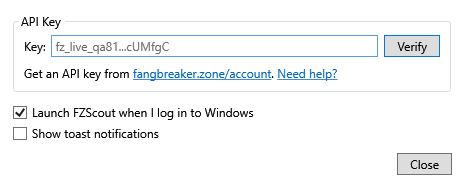
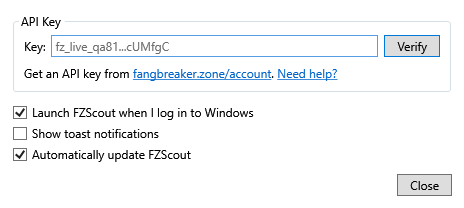
Add a setting to turn off automatic updates
When off, FZScout skips its periodic update check. Check for updates in About still works. Turning it back on checks right away.

diff --git a/FZScout/SettingsWindow.xaml b/FZScout/SettingsWindow.xaml
@@ -1,4 +1,4 @@
-<local:FixedSizeDialog x:Class="FZScout.SettingsWindow"
+<local:FixedSizeDialog x:Class="FZScout.SettingsWindow"
         x:ClassModifier="internal"
         xmlns="http://schemas.microsoft.com/winfx/2006/xaml/presentation"
         xmlns:x="http://schemas.microsoft.com/winfx/2006/xaml"
@@ -78,6 +78,7 @@
 
         <CheckBox Margin="0,12,0,0" Content="_Launch FZScout when I log in to Windows" IsChecked="{Binding LaunchesAtLogin}" />
         <CheckBox Margin="0,6,0,0" Content="Show _toast notifications" IsChecked="{Binding ShowsToastNotifications}" />
+        <CheckBox Margin="0,6,0,0" Content="Automatically _update FZScout" IsChecked="{Binding DownloadsUpdatesAutomatically}" />
 
         <Button Margin="0,12,0,0" HorizontalAlignment="Right" Content="Close" IsCancel="True" Padding="12,2" Click="CloseWindow" />
     </StackPanel>

diff --git a/FZScout/TrayApplication.cs b/FZScout/TrayApplication.cs
@@ -29,6 +29,7 @@ class TrayApplication : IDisposable
     readonly DispatcherTimer _showStatusWhenItChangesByItself = new();
     readonly LaunchAtLogin.StartupApp _launchAtLogin;
     readonly OnUnlessTurnedOffSetting _showToastNotifications = OnUnlessTurnedOffSetting.ShowToastNotifications();
+    readonly OnUnlessTurnedOffSetting _downloadUpdatesAutomatically = OnUnlessTurnedOffSetting.DownloadUpdatesAutomatically();
     readonly ApiKeyVerifier _apiKeyVerifier;
     readonly AsyncRelayCommand _verifyApiKeyCommand;
     bool _hasExplainedHidingToTray;
@@ -92,7 +93,7 @@ class TrayApplication : IDisposable
 
     AppViewModel CreateViewModel()
     {
-        return new AppViewModel(this._dependencies.GetVersion(), this._launchAtLogin.IsOn, this._showToastNotifications.IsOn)
+        return new AppViewModel(this._dependencies.GetVersion(), this._launchAtLogin.IsOn, this._showToastNotifications.IsOn, this._downloadUpdatesAutomatically.IsOn)
         {
             DownloadedVersionToInstallAfterExit = this._updateChecker.DownloadedVersionToInstallAfterExit,
             ShowLogCommand = new RelayCommand(ShowLog),
@@ -198,6 +199,11 @@ class TrayApplication : IDisposable
         {
             this._showToastNotifications.TurnOnOrOff(this._viewModel.ShowsToastNotifications);
         }
+
+        if (e.PropertyName == nameof(AppViewModel.DownloadsUpdatesAutomatically))
+        {
+            ApplyDownloadUpdatesAutomatically(this._viewModel.DownloadsUpdatesAutomatically);
+        }
     }
 
     void ApplyLaunchAtLogin(bool wantsLaunchAtLogin)
@@ -214,6 +220,16 @@ class TrayApplication : IDisposable
         }
 
         this._launchAtLogin.TurnOff();
+    }
+
+    /// <summary>Checks right away when turned on, instead of waiting for the next periodic check.</summary>
+    void ApplyDownloadUpdatesAutomatically(bool wantsAutomaticUpdates)
+    {
+        this._downloadUpdatesAutomatically.TurnOnOrOff(wantsAutomaticUpdates);
+        if (wantsAutomaticUpdates)
+        {
+            _ = CheckForUpdatesAsync();
+        }
     }
 
     bool CanVerifyApiKey() => ApiKeyBeingEdited.Length > 0 && ApiKeyBeingEdited != this._apiKeyVerifier.SavedApiKey?.Value;

diff --git a/FZScout/WatchForNewUpdates.cs b/FZScout/WatchForNewUpdates.cs
@@ -1,7 +1,7 @@
 namespace FZScout;
 
 /// <summary>
-/// Downloads updates in the background from construction until disposed, then installs the newest one after the process exits.
+/// Downloads updates in the background from construction until disposed, while the user has automatic updates turned on, then installs the newest one after the process exits.
 /// Disposing drops any download still in progress, so exiting never waits on the network.
 /// </summary>
 class WatchForNewUpdates : IDisposable
@@ -9,9 +9,9 @@ class WatchForNewUpdates : IDisposable
     readonly CancellationTokenSource _stopCheckingForUpdates = new();
     readonly Task _checkingForUpdates;
 
-    public WatchForNewUpdates(TimeProvider timeProvider)
+    public WatchForNewUpdates(Func<bool> isTurnedOn, TimeProvider timeProvider)
     {
-        this._checkingForUpdates = Task.Run(() => UpdateChecker.DownloadNewestReleaseNowAndPeriodicallyUntilCancelled(timeProvider, this._stopCheckingForUpdates.Token));
+        this._checkingForUpdates = Task.Run(() => UpdateChecker.DownloadNewestReleaseNowAndPeriodicallyUntilCancelled(isTurnedOn, timeProvider, this._stopCheckingForUpdates.Token));
     }
 
     /// <summary>For checking right away, on top of the periodic checks. Whatever it downloads also gets installed after exit.</summary>

diff --git a/FZScout/GitHubUpdateChecker.cs b/FZScout/GitHubUpdateChecker.cs
@@ -36,14 +36,21 @@ class GitHubUpdateChecker(IUpdateSource updateSource, IVelopackLocator? locator 
         return new GithubSource($"https://github.com/{GitHubRepository.OwnerAndName}", accessToken: null, prerelease: acceptPrereleases);
     }
 
-    /// <summary>Returns quietly once cancelled, dropping any download still in progress.</summary>
-    public async Task DownloadNewestReleaseNowAndPeriodicallyUntilCancelled(TimeProvider timeProvider, CancellationToken cancellationToken)
+    /// <summary>
+    /// Returns quietly once cancelled, dropping any download still in progress. Asks <paramref name="isTurnedOn"/> before each check,
+    /// so turning automatic updates off or on takes effect at the next check without restarting.
+    /// </summary>
+    public async Task DownloadNewestReleaseNowAndPeriodicallyUntilCancelled(Func<bool> isTurnedOn, TimeProvider timeProvider, CancellationToken cancellationToken)
     {
         try
         {
             while (true)
             {
-                await DownloadNewestRelease(cancellationToken);
+                if (isTurnedOn())
+                {
+                    await DownloadNewestRelease(cancellationToken);
+                }
+
                 await Task.Delay(TimeBetweenChecks, timeProvider, cancellationToken);
             }
         }

diff --git a/FZScout.Tests/GitHubUpdateCheckerTests.cs b/FZScout.Tests/GitHubUpdateCheckerTests.cs
@@ -120,12 +120,26 @@ public class GitHubUpdateCheckerTests
         using var installDir = new TempDirectory();
         var checker = CreateChecker("1.0.0", new FakeUpdateSource(FeedWithRelease("2.0.0")), installDir);
         using var stopChecking = new CancellationTokenSource();
-        var checking = checker.DownloadNewestReleaseNowAndPeriodicallyUntilCancelled(new FakeTimeProvider(), stopChecking.Token);
+        var checking = checker.DownloadNewestReleaseNowAndPeriodicallyUntilCancelled(() => true, new FakeTimeProvider(), stopChecking.Token);
 
         stopChecking.Cancel();
         await checking;
 
         Assert.True(checking.IsCompletedSuccessfully);
+    }
+
+    [Fact]
+    public async Task DoesNotDownloadWhileTurnedOff()
+    {
+        using var installDir = new TempDirectory();
+        var checker = CreateChecker("1.0.0", new FakeUpdateSource(FeedWithRelease("2.0.0")), installDir);
+        using var stopChecking = new CancellationTokenSource();
+        var checking = checker.DownloadNewestReleaseNowAndPeriodicallyUntilCancelled(() => false, new FakeTimeProvider(), stopChecking.Token);
+
+        stopChecking.Cancel();
+        await checking;
+
+        Assert.Null(checker.DownloadedVersionToInstallAfterExit);
     }
 
     [Theory]

diff --git a/FZScout.Tests/Xaml/SettingsWindowTests.cs b/FZScout.Tests/Xaml/SettingsWindowTests.cs
@@ -7,7 +7,7 @@ public class SettingsWindowTests
     [WpfFact]
     public Task AfterVerifyingTheApiKey()
     {
-        var viewModel = new AppViewModel("7.0.0", launchesAtLogin: true, showsToastNotifications: false)
+        var viewModel = new AppViewModel("7.0.0", launchesAtLogin: true, showsToastNotifications: false, downloadsUpdatesAutomatically: true)
         {
             ApiKeyBeingEdited = "fz_live_not_a_real_key",
             ApiKeyVerificationStatus = ApiKeyVerificationStatus.VerifiedAndSaved,
@@ -18,7 +18,7 @@ public class SettingsWindowTests
     [WpfFact]
     public Task ShowsWhichApiKeyIsSavedWithoutRevealingIt()
     {
-        var viewModel = new AppViewModel("7.0.0", launchesAtLogin: true, showsToastNotifications: false)
+        var viewModel = new AppViewModel("7.0.0", launchesAtLogin: true, showsToastNotifications: false, downloadsUpdatesAutomatically: true)
         {
             SavedApiKeyAbbreviation = "fz_live_qa81...cUMfgC",
         };

diff --git a/FZScout.Tests/Xaml/MainWindowTests.cs b/FZScout.Tests/Xaml/MainWindowTests.cs
@@ -7,7 +7,7 @@ public class MainWindowTests
     [WpfFact]
     public Task WithEachKindOfLogLine()
     {
-        var viewModel = new AppViewModel("7.0.0", launchesAtLogin: true, showsToastNotifications: true);
+        var viewModel = new AppViewModel("7.0.0", launchesAtLogin: true, showsToastNotifications: true, downloadsUpdatesAutomatically: true);
         viewModel.LogLines.Add(new LogLine("2026-11-05 12:00:00 FZScout v7.0.0", LogLineSeverity.Info));
         viewModel.LogLines.Add(new LogLine("2026-11-05 12:00:01 Reported a bonus. See https://fangbreaker.zone/bonuses", LogLineSeverity.Success));
         viewModel.LogLines.Add(new LogLine("2026-11-05 12:00:02 Couldn't tell which zone this is.", LogLineSeverity.Warning));

diff --git a/FZScout/ViewModels/AppViewModel.cs b/FZScout/ViewModels/AppViewModel.cs
@@ -10,7 +10,8 @@ namespace FZScout.ViewModels;
 partial class AppViewModel(
     string? runningVersion,
     bool launchesAtLogin,
-    bool showsToastNotifications) : ObservableObject
+    bool showsToastNotifications,
+    bool downloadsUpdatesAutomatically) : ObservableObject
 {
     public ObservableCollection<LogLine> LogLines { get; } = [];
 
@@ -52,6 +53,9 @@ partial class AppViewModel(
 
     [ObservableProperty]
     public partial bool ShowsToastNotifications { get; set; } = showsToastNotifications;
+
+    [ObservableProperty]
+    public partial bool DownloadsUpdatesAutomatically { get; set; } = downloadsUpdatesAutomatically;
 
     public ICommand ShowLogCommand { get; init; } = new RelayCommand(() => { });
 

diff --git a/FZScout.Tests/Xaml/AboutWindowTests.cs b/FZScout.Tests/Xaml/AboutWindowTests.cs
@@ -9,7 +9,7 @@ public class AboutWindowTests
     public Task AfterDownloadingAnUpdate()
     {
         var downloadedVersion = SemanticVersion.Parse("8.0.0");
-        var viewModel = new AppViewModel("7.0.0", launchesAtLogin: true, showsToastNotifications: true)
+        var viewModel = new AppViewModel("7.0.0", launchesAtLogin: true, showsToastNotifications: true, downloadsUpdatesAutomatically: true)
         {
             LatestUpdateCheckResult = new DownloadedNewerRelease(downloadedVersion),
             DownloadedVersionToInstallAfterExit = downloadedVersion,

diff --git a/FZScout/Program.cs b/FZScout/Program.cs
@@ -24,7 +24,7 @@ static class Program
     static void Main()
     {
         VelopackApp.InstallPendingUpdates();
-        using var updates = new WatchForNewUpdates(TimeProvider.System);
+        using var updates = new WatchForNewUpdates(() => OnUnlessTurnedOffSetting.DownloadUpdatesAutomatically().IsOn, TimeProvider.System);
 
         var application = new Application { ShutdownMode = ShutdownMode.OnExplicitShutdown };
         using var userInput = new MessageBoxUserInput();

diff --git a/FZScout/OnUnlessTurnedOffSetting.cs b/FZScout/OnUnlessTurnedOffSetting.cs
@@ -1,4 +1,4 @@
-using Microsoft.Win32;
+using Microsoft.Win32;
 
 namespace FZScout;
 
@@ -15,6 +15,8 @@ class OnUnlessTurnedOffSetting(string valueName, string settingsKeyPath = @"Soft
     }
 
     public static OnUnlessTurnedOffSetting ShowToastNotifications() => new("ShowToastNotifications");
+
+    public static OnUnlessTurnedOffSetting DownloadUpdatesAutomatically() => new("DownloadUpdatesAutomatically");
 
     public void TurnOnOrOff(bool turnOn)
     {

diff --git a/FZScout.Tests/Xaml/TrayIconTests.cs b/FZScout.Tests/Xaml/TrayIconTests.cs
@@ -9,7 +9,7 @@ public class TrayIconTests
     [WpfFact]
     public async Task Menu()
     {
-        var viewModel = new AppViewModel("7.0.0", launchesAtLogin: true, showsToastNotifications: true);
+        var viewModel = new AppViewModel("7.0.0", launchesAtLogin: true, showsToastNotifications: true, downloadsUpdatesAutomatically: true);
         using var trayIcon = new TrayIcon(viewModel);
         var menu = trayIcon.ContextMenu;
 
